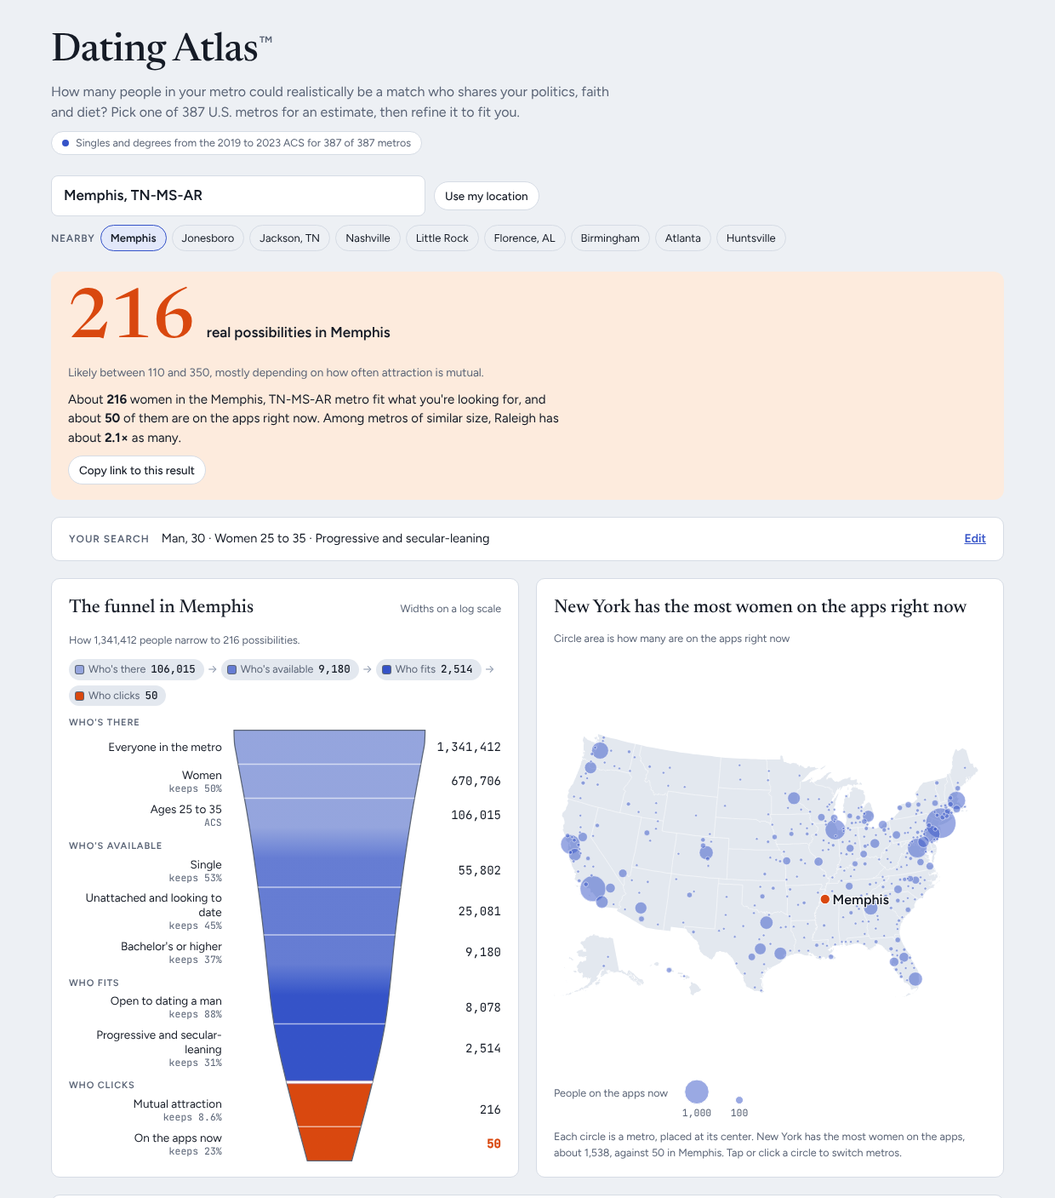
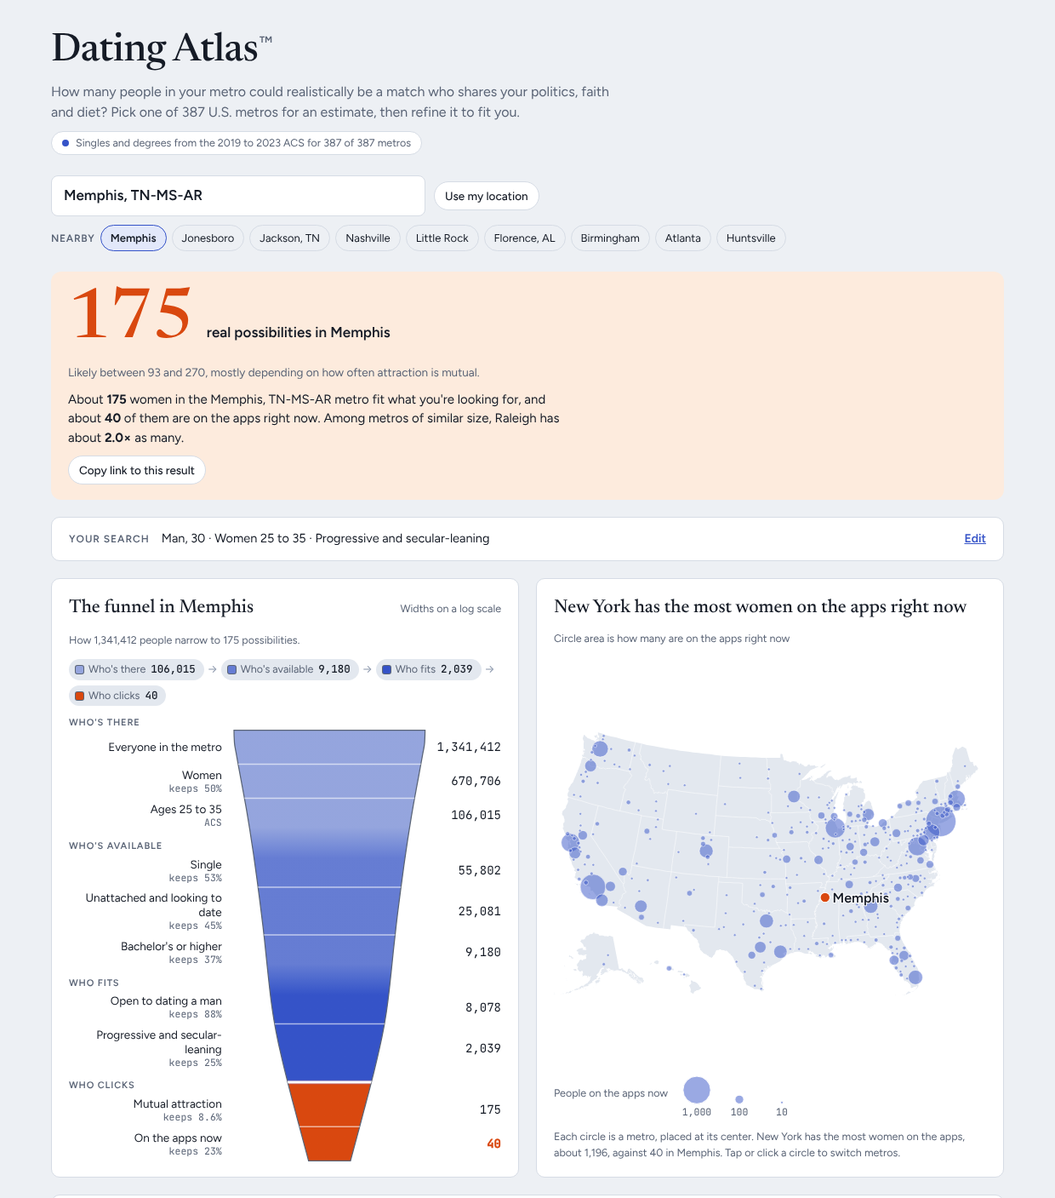
Combine politics and faith from survey odds ratios, not a fixed boost
Matching politics and faith (progressive with secular-leaning, conservative
with Christian) used a fixed x1.5 boost, which in many metros counted more
people as fitting both than fit either one. The joint share now comes from
the odds ratio between the two among single 25-to-35-year-olds in the 2024
Cooperative Election Study (a Plackett joint), so it can never exceed either
share. With the degree filter on, degree holders' politics and faith shift
as they do in the survey and line up more tightly. The range now varies the
odds ratio and the degree shift by their bootstrap spread instead of +/-15%
on the boost.

The default search in Memphis goes from 216 to 175; metro rankings barely
change. The analysis scripts keep measuring against the page as it was
before (from git), and step2.mjs checks the page matches the patched copy.
README screenshot and alt text updated.

Claude-Session: https://claude.ai/code/session_018QKs57y5CB6a4BRhY5rofv

diff --git a/atlas/index.html b/atlas/index.html
@@ -490,11 +490,11 @@ code{font-family:var(--mono);font-size:12.5px}
       <p>Singlehood and degree share come from the Census Bureau's American Community Survey for 2019 to 2023. Table B12002 counts never-married, divorced and widowed women and men in 5-year age bands; when a band straddles your age range, the page splits it into single years with a smooth curve that keeps each band's total exactly (a monotone cubic fitted to the running count across band edges), so neighboring years don't jump at band boundaries. The survey can't see unmarried couples who live together, so singles are cut by about 15%. Table B15001 gives the share of women and men aged 25 to 34 with a bachelor's degree or higher. Nonbinary people get the average of women and men, adjusted by the gaps below. All 387 metros matched an ACS row by name. Small metros have wide margins of error in the ACS, so read their ratios loosely.</p>
       <p>If a metro had no ACS row, the page would fall back to 50% single for women (6 points higher for men, 10 for nonbinary people) and to the metro's adult bachelor's rate for degrees, times 1.25 for women, 0.97 for men and 1.15 for nonbinary people.</p>
       <p>The map puts each metro at its internal point from the Census Bureau's <a href="https://www.census.gov/geographies/reference-files/time-series/geo/gazetteer-files.html">2023 Gazetteer</a>, with state outlines from <a href="https://github.com/topojson/us-atlas">us-atlas</a>, in the Albers USA projection that moves Alaska and Hawaii into insets. Circle area is proportional to the number of possibilities on the apps right now.</p>
-      <p>The range under the main number comes from a Monte Carlo simulation. The page redraws every input 2,000 times from a distribution that reflects how sure we are of it, runs the funnel for each draw, and shows the middle 80% of the results (10th to 90th percentile). The spreads come from the sources themselves: the Census Bureau's published margins of error for each metro's single people by age band and degree share (standard error = margin of error ÷ 1.645, summed across bands as root sum of squares); survey sample sizes for Gallup's openness rates and PRRI's faith shares; ±8% for Pew's share of singles who are looking and ±3.5% for the cohabiting cut; ±7 points on the progressive offset, ±5 points on the secular-leaning base and ±15% on the overlap boost, since those are modeling choices; ±25% each on the two attraction rates, which spans the published yes-rates from 22% to 49%; ±6% on the kids step; and ±5% to ±30% on the diet rates, depending on the survey. The page also reports which group of inputs drives most of the range, from how much each varies the result on its own. The range only covers uncertainty in the inputs. It does not cover errors in how the funnel is built, like assuming the steps are independent.</p>
+      <p>The range under the main number comes from a Monte Carlo simulation. The page redraws every input 2,000 times from a distribution that reflects how sure we are of it, runs the funnel for each draw, and shows the middle 80% of the results (10th to 90th percentile). The spreads come from the sources themselves: the Census Bureau's published margins of error for each metro's single people by age band and degree share (standard error = margin of error ÷ 1.645, summed across bands as root sum of squares); survey sample sizes for Gallup's openness rates and PRRI's faith shares; ±8% for Pew's share of singles who are looking and ±3.5% for the cohabiting cut; ±7 points on the progressive offset and ±5 points on the secular-leaning base, since those are modeling choices; ±15% on the odds ratio between politics and faith (±24% among degree holders) and ±10% on how a degree shifts politics and faith, from bootstrap resamples of the survey; ±25% each on the two attraction rates, which spans the published yes-rates from 22% to 49%; ±6% on the kids step; and ±5% to ±30% on the diet rates, depending on the survey. The page also reports which group of inputs drives most of the range, from how much each varies the result on its own. The range only covers uncertainty in the inputs. It does not cover errors in how the funnel is built, like assuming the steps are independent.</p>
       <p>Not every single person is available or looking. In Pew's 2022 survey, 20% of people who were neither married nor living with a partner were in a committed relationship (<a href="https://www.pewresearch.org/wp-content/uploads/sites/20/2023/01/PI_2023.02.02_Onilne-Dating_FINAL.pdf">topline, p. 64</a>), and Pew doesn't break that out by age, so the page removes 20% at every age. Of the rest, Pew's 2019 survey found 67% of men and 61% of women under 40 looking for a relationship or dates, against 55% of men and only 29% of women 40 and older (<a href="https://www.pewresearch.org/wp-content/uploads/sites/20/2020/08/PSDT_08.20.20.dating-relationships.full_.report.pdf">report, p. 18</a>). By 2022 the share looking had fallen from 61% to 50% for single men and from 38% to 35% for single women (<a href="https://www.pewresearch.org/short-reads/2023/02/08/for-valentines-day-5-facts-about-single-americans/">Pew</a>), so the page scales each age split by that drop: 55% and 45% for men, 56% and 27% for women. Nonbinary people get the average. The same step applies to the competition, since people who aren't looking aren't competing.</p>
       <p>The competition ratio divides the single, looking, degree-holding people of the genders you picked by every single, looking, degree-holding person in the same age range who is open to dating them, whatever their gender. A straight man in a metro with equal numbers of men and women gets about 0.93, because some women also date women. The sex ratio in the list is simpler: single, looking, degree-holding women per man. Because far fewer women than men over 40 are looking, it tilts toward men at older ages. Unchecking the degree filter drops the degree step from your pool and the competition alike.</p>
       <p>The values estimate is a model, not survey data. It starts from the 2024 vote, with county results summed for each metro (<a href="https://github.com/tonmcg/US_County_Level_Election_Results_08-24">tonmcg county results</a>). Connecticut and Alaska don't report by county in that file, so their metros use the statewide Harris share. The progressive share is the Harris share plus 20 points, capped at 90%. The secular-leaning share combines two religion sources: <code>40% + (unaffiliated share − 23.1%) + 0.3 × (48.6% − congregation share)</code>. The unaffiliated share is the metro's share of adults with no religion, from PRRI's county estimates in its <a href="https://www.prri.org/census/">Census of American Religion</a>, weighted by population across each metro's counties. The congregation share is the share of residents counted as members of a congregation in the <a href="https://www.usreligioncensus.org/node/1639">2020 U.S. Religion Census</a>; metros created since 2020 use the old metro or county they came from. Both figures are metro averages across the atlas (23.1% and 48.6%). The PRRI estimates carry most of the weight because they measure what people say they believe. The congregation share adds how much organized religion is around, but only lightly, since Catholic parishes count everyone they baptized. PRRI's county model already uses education and the vote, so neither enters this formula again. Men are shifted 10 points less progressive and 4 points more secular, and nonbinary people 25 points more progressive and 15 points more secular.</p>
-      <p>Politics and faith can be changed in "Who you're looking for". Conservative is everyone outside the progressive share above, so the two always add to 100%. The faith shares come from the same <a href="https://www.prri.org/census/">PRRI county estimates</a>, weighted by population across each metro's counties: Christian (Catholic, Protestant, Latter-day Saint, Orthodox and Jehovah's Witness), Catholic, Protestant, Latter-day Saint, Jewish, Muslim, Hindu and Buddhist. PRRI has no Pagan or Wiccan estimate, so the page starts from 0.3% of adults (<a href="https://www.pewresearch.org/religion/religious-landscape-study/">Pew's 2014 Religious Landscape Study</a>) and scales it by each metro's PRRI share of other religions against the atlas average of 1.44%. These are shares of all adults, not of young singles, so they will be off for groups that skew young or old. The 1.5 overlap boost applies only to matching pairs, progressive with secular-leaning and conservative with a Christian faith, because those go together more often than chance.</p>
+      <p>Politics and faith can be changed in "Who you're looking for". Conservative is everyone outside the progressive share above, so the two always add to 100%. The faith shares come from the same <a href="https://www.prri.org/census/">PRRI county estimates</a>, weighted by population across each metro's counties: Christian (Catholic, Protestant, Latter-day Saint, Orthodox and Jehovah's Witness), Catholic, Protestant, Latter-day Saint, Jewish, Muslim, Hindu and Buddhist. PRRI has no Pagan or Wiccan estimate, so the page starts from 0.3% of adults (<a href="https://www.pewresearch.org/religion/religious-landscape-study/">Pew's 2014 Religious Landscape Study</a>) and scales it by each metro's PRRI share of other religions against the atlas average of 1.44%. These are shares of all adults, not of young singles, so they will be off for groups that skew young or old. Matching pairs, progressive with secular-leaning and conservative with a Christian faith, go together more often than chance. The share who fit both comes from the odds ratio between politics and faith among single 25 to 35 year olds in the <a href="https://doi.org/10.7910/DVN/X11EP6">2024 Cooperative Election Study</a>: 1.8 for women and 2.3 for men for progressive with no religion, and 2.0 and 1.9 for conservative with a Christian faith. Worked out this way (a Plackett joint), it can never exceed either share on its own. Degree holders are more progressive (odds 1.4 to 1.4 times higher), more often Christian (1.2 to 1.3 times) and less often unaffiliated, and their politics and faith line up more tightly (odds ratios of 4.1 to 5.0), so the degree filter uses those figures. Progressive counts Democrats and leaners, with independents as half.</p>
       <p>The diet step uses national rates. In <a href="https://news.gallup.com/poll/510038/identify-vegetarian-vegan.aspx">Gallup's 2023 poll</a>, 4% of Americans were vegetarian (6% of women, 2% of men) and 1% vegan, and 9% of liberals were vegetarian against 3% of moderates and conservatives, so vegetarian and vegan rates are scaled by 2.25 for progressives and 0.75 for conservatives. Vegan rates split by gender the same way as vegetarian. An <a href="https://www.frontiersin.org/journals/nutrition/articles/10.3389/fnut.2023.1113792/full">analysis of NHANES</a> found 4.7% of adults eat a pescatarian diet, 59.5% of them women; the pescatarian option also counts vegetarians, and only that vegetarian part is scaled by politics. Kosher and halal follow the local faith shares: 17% of Jewish Americans keep kosher at home (<a href="https://www.pewresearch.org/religion/2021/05/11/jewish-practices-and-customs/">Pew 2020</a>), and 83% of Muslim Americans only buy halal or prefer it (<a href="https://ispu.org/halal-preferences/">ISPU 2022</a>).</p>
       <p>The adult bachelor's rate in the fallback above is the county share of adults 25 and older with a bachelor's degree or higher, from the 2015 to 2019 ACS (<a href="https://github.com/OpenIntroStat/usdata">OpenIntro usdata</a>), weighted by population across each metro's counties and scaled up to today's national rate (32.1% to 36.9%). The degree step in the funnel uses Table B15001.</p>
       <p>Housing cost is a recent mover's rent for a 1-bedroom as a share of median yearly pay, from the 2019 to 2023 ACS. Table B25031 gives each metro's median gross rent, including utilities, for a 1-bedroom. That median includes people on long leases and in rent-stabilized units, so it is scaled by the metro's ratio of rent for people who moved in from 2021 on to rent for all renters (Table B25113). Pay is the median earnings of people 25 and older with a bachelor's degree, or with some college if you set no bachelor's (Table B20004), and it covers part-time workers too. The 30% line is HUD's definition of a cost-burdened renter. Rents have risen since 2023, so treat the dollar figures as a floor. The ranking between metros holds up better. Housing cost doesn't change the pool. It's a separate measure of what living there costs.</p>
@@ -538,7 +538,21 @@ const SINGLE_ADJ = {w:0, m:6, n:10};  // points above SINGLE (modeled) or above 
 const DEG_MULT = {w:1.25, m:.97, n:1.15};
 const VAL_SHIFT = {w:[0,0], m:[-.10,.04], n:[.25,.15]}; // [progressive, secular]
 const COHAB = .85; // ACS can't see cohabiting couples; about 15% of unmarried young adults live with a partner
-const CORR = 1.5;  // filters overlap: progressives skew secular and conservatives skew Christian, so a matching pair is more common than the product
+// Matching politics and faith go together more often than chance: progressives skew secular and conservatives
+// Christian. The share who fit both comes from the odds ratio between the two among single 25-to-35-year-olds in
+// the 2024 Cooperative Election Study (a Plackett joint), so it can never exceed either share on its own.
+// Degree holders are more progressive, more often Christian and less often unaffiliated, and their politics and
+// faith line up more tightly, so the degree filter shifts both shares and uses the degree holders' odds ratio.
+// Nonbinary people get the average of women and men.
+const PSI = {prog:{all:{w:1.82, m:2.26}, ba:{w:4.76, m:4.1}}, cons:{all:{w:2.05, m:1.86}, ba:{w:5.01, m:4.28}}};
+const DEG_OR = {prog:{w:1.38, m:1.45}, sec:{w:.93, m:.76}, christian:{w:1.2, m:1.3}};
+const byGender = (o, g) => o[g] ?? (o.w + o.m)/2;
+const shiftOdds = (p, k) => p <= 0 || p >= 1 ? p : p*k/(1 - p + p*k);
+const plackett = (p, q, psi) => { if (Math.abs(psi - 1) < 1e-9) return p*q; const S = 1 + (psi - 1)*(p + q);
+  return (S - Math.sqrt(S*S - 4*psi*(psi - 1)*p*q))/(2*(psi - 1)); };
+// Self-check: the joint gives back its odds ratio and stays inside both shares
+[[.7, .4, 4.76], [.9, .5, 1.82], [.3, .9, 5]].forEach(([p, q, psi]) => { const j = plackett(p, q, psi);
+  console.assert(Math.abs(j*(1 - p - q + j)/((p - j)*(q - j)) - psi) < 1e-6 && j <= Math.min(p, q), "plackett", p, q, psi); });
 // Partner filters. The default is progressive, secular-leaning and any diet; the second preset is the opposite side.
 const POLS = {prog:"Progressive", cons:"Conservative", any:"Any politics"};
 const FAITHS = {secular:"Secular-leaning", christian:"Christian", catholic:"Catholic", protestant:"Protestant", lds:"Latter-day Saint",
@@ -662,19 +676,23 @@ const M = RAW.map(([name,pop,bach,black,dem,demNote],i) => {
   const house = HOUSE[name] || null;
   return {i, name, short:name.split(",")[0].split("–")[0], pop, bach, dem, demNote, adh, none, acs, deg, house, faith:FAITH[name] || null};
 });
-// Share of single people of gender g in metro m who fit your politics and faith, 0 to 1, before the overlap boost
+// Share of single people of gender g in metro m who fit your politics and faith, 0 to 1
 // Q holds the modeled constants, so the uncertainty simulation can vary them
-const VQ = {off:.2, sec:.40, fr:1, corr:CORR};
+const VQ = {off:.2, sec:.40, fr:1, psi:1, dp:1, ds:1};
 function valRaw(m, g, P, Q = VQ){
-  const [ps, ss] = VAL_SHIFT[g], F = m.faith;
-  const prog = Math.min(.9, m.dem/100 + Q.off + ps);
+  const [ps, ss] = VAL_SHIFT[g], F = m.faith, deg = P.degOnly;
+  let prog = Math.min(.9, m.dem/100 + Q.off + ps);
+  let sec = Math.min(.8, Math.max(.05, Q.sec + (m.none - 23.1)/100 + .3*(48.6 - m.adh)/100 + ss));
+  let fs = !F ? 0 : Q.fr*(P.faith === "pagan" ? PAGAN*F[8]/OTHER_AVG : F[FAITH_COL[P.faith]]/100);
+  if (deg){ prog = shiftOdds(prog, byGender(DEG_OR.prog, g)*Q.dp); sec = shiftOdds(sec, byGender(DEG_OR.sec, g)*Q.ds);
+    if (CHRISTIAN.includes(P.faith)) fs = shiftOdds(fs, byGender(DEG_OR.christian, g)*Q.ds); }
   const pol = P.pol === "prog" ? prog : P.pol === "cons" ? 1 - prog : 1;
-  const rel = P.faith === "secular" ? Math.min(.8, Math.max(.05, Q.sec + (m.none - 23.1)/100 + .3*(48.6 - m.adh)/100 + ss))
-    : P.faith === "any" ? 1 : !F ? 0 : Q.fr*(P.faith === "pagan" ? PAGAN*F[8]/OTHER_AVG : F[FAITH_COL[P.faith]]/100);
+  const rel = P.faith === "secular" ? sec : P.faith === "any" ? 1 : fs;
+  if (aligned(P)) return plackett(pol, rel, byGender(PSI[P.pol][deg ? "ba" : "all"], g)*Q.psi);
   return P.faith === "secular" ? Math.max(.02, pol*rel) : pol*rel;
 }
 const aligned = P => (P.pol === "prog" && P.faith === "secular") || (P.pol === "cons" && CHRISTIAN.includes(P.faith));
-const valFit = (m, g, P, Q = VQ) => Math.min(1, valRaw(m, g, P, Q)*(aligned(P) ? Q.corr : 1));
+const valFit = (m, g, P, Q = VQ) => Math.min(1, valRaw(m, g, P, Q));
 // Share of those who also fit your diet. Kosher and halal follow the local Jewish and Muslim shares.
 function dietFit(m, g, P){
   if (P.diet === "any") return 1;
@@ -716,7 +734,7 @@ const ZS = (() => { let a = 20251002; const rnd = () => { a |= 0; a = a + 0x6D2B
   return z; })();
 const LN = (sd, z) => Math.exp(sd*z - sd*sd/2);       // mean-one lognormal scale
 const NR = (sd, z) => Math.max(.05, 1 + sd*z);        // mean-one normal scale, kept positive
-const UNC = {cohab:.035, look:.08, openAdapt:.05, off:.07, sec:.05, corr:.15, pagan:.35, kids:.06, his:.25, her:.25, dietPol:.2,
+const UNC = {cohab:.035, look:.08, openAdapt:.05, off:.07, sec:.05, psi:{all:.15, ba:.24}, degOR:.1, pagan:.35, kids:.06, his:.25, her:.25, dietPol:.2,
   diet:{veg:.15, vegan:.3, pesc:.08, kosher:.05, halal:.05}};
 // Each group as it reads after "mostly depending on"
 const UGROUPS = {census:"the local Census counts", look:"how many singles are looking", open:"how many are open to dating you",
@@ -747,7 +765,8 @@ function interval(m, s, P, f){
   const Q = {...VQ}, fac = new Float64Array(K), one = new Float64Array(K);
   for (let d = 0; d < NSIM; d++){
     const z = i => ZS[d*DIMS + i];
-    Q.off = VQ.off + UNC.off*z(0); Q.sec = VQ.sec + UNC.sec*z(1); Q.fr = frSD ? LN(frSD, z(2)) : 1; Q.corr = CORR*LN(UNC.corr, z(3));
+    Q.off = VQ.off + UNC.off*z(0); Q.sec = VQ.sec + UNC.sec*z(1); Q.fr = frSD ? LN(frSD, z(2)) : 1; Q.psi = LN(UNC.psi[s.deg ? "ba" : "all"], z(3));
+    Q.dp = s.deg ? LN(UNC.degOR, z(30)) : 1; Q.ds = s.deg ? LN(UNC.degOR, z(31)) : 1;
     const cohab = NR(UNC.cohab, z(4)), click = LN(UNC.his, z(5))*LN(UNC.her, z(6)), diet = (dietSD ? LN(dietSD, z(7)) : 1)*(dietPolSD ? LN(dietPolSD, z(8)) : 1);
     let all = 0; one.fill(0);
     parts.forEach((p, j) => { const g = g0[j], b = 9 + j*7;

diff --git a/docs/structural-uncertainty.md b/docs/structural-uncertainty.md
@@ -1,6 +1,6 @@
 # How the funnel is built: a structural check
 
-The range under the main number covers uncertainty in the inputs, not in how the funnel is built. This note measures the second kind. It checks each structural assumption against survey microdata (step 1), then replaces the biggest one with estimates from data (step 2). Nothing on the live page has changed; step 2 exists as a tested patch, `scripts/structure/step2-values-joint.patch`.
+The range under the main number covers uncertainty in the inputs, not in how the funnel is built. This note measures the second kind. It checks each structural assumption against survey microdata (step 1), then replaces the biggest one with estimates from data (step 2). Step 2 is now applied to the page (`scripts/structure/step2-values-joint.patch`). Every "before" figure below is the page as it was before that change; the scripts read it from git (commit 73d4238), so the analysis reproduces.
 
 ## Summary
 
@@ -10,7 +10,7 @@ The range under the main number covers uncertainty in the inputs, not in how the
 - **Several other assumptions are wrong by 8 to 37%, in measurable ways.** The degree step uses the degree share of everyone aged 25 to 34. Singles hold degrees about 10% less often, and the page uses the 25-to-34 share whatever age range you pick (singles 40 to 50 hold degrees at 0.78 times that rate). The flat 15% cohabiting cut is too small for young singles (26% of women and 22% of men aged 25 to 35 live with a partner). The faith shares describe all adults, but young singles are only 0.68 times as likely to be Christian.
 - **The secular-leaning level is not clearly off, but it should fall with age.** CES finds 6 to 7 points more young singles with no religion than the page assumes, but CES also finds about 7 points more unaffiliated adults overall than the GSS, PRRI or Pew. That's a survey house effect, not an error on the page. Across sources, the share of single women 25 to 35 with no religion runs from about 32% (on PRRI's scale) through 37.5% (GSS) to 48% (CES); the page's 40% sits in the middle. The real problem is age: the page uses the same base at every age, while the no-religion share among singles falls from 37.5% at 25 to 35 to about 22% at 46 to 55 (GSS, women). For a search for women 40 to 50 that alone is ×0.76.
 - **Some assumptions hold up.** Mutual attraction is close to his rate times her rate (lift 1.03). Openness to dating your gender barely varies with politics (within 2.5%). The progressive model fits young single women well. For men it's too steep: it overstates how progressive men are in the most Democratic metros.
-- **Recommendation: fix rather than widen.** The structural errors found here are systematic biases with data to correct them, not random noise. Folding them into the range as judgment would widen it around a center that's known to be off. Apply step 2. Then fix the degree share's age band, the cohabiting rate, the faith shares and the secular share's age gradient, and carry each correction's own statistical uncertainty into the range. Step 2 shows how. The one finding that does belong in the range is the secular-leaning level, where sources disagree with no known direction of error.
+- **Recommendation: fix rather than widen.** The structural errors found here are systematic biases with data to correct them, not random noise. Folding them into the range as judgment would widen it around a center that's known to be off. Step 2 is applied. Next, fix the degree share's age band, the cohabiting rate, the faith shares and the secular share's age gradient, and carry each correction's own statistical uncertainty into the range. Step 2 shows how. The one finding that does belong in the range is the secular-leaning level, where sources disagree with no known direction of error.
 
 ## Method
 
@@ -92,7 +92,7 @@ What stands out:
 - **The secular-leaning level moves the number but not the ranking.** Taking it from PRRI's scale, the GSS or CES moves the combined result for the default search from ×0.49 to ×0.83, with the ranking unchanged (ρ 0.996 to 0.998). The page's level gives ×0.67, close to the GSS. This is uncertainty about the level, with no known direction of error, so it belongs in the range rather than in a correction.
 - **Rankings are robust throughout.** The order of metros barely depends on how the funnel is built, so comparing metros on the page is far safer than reading off a single metro's absolute number.
 
-## Step 2: replacing the overlap with data
+## Step 2: replacing the overlap with data (applied)
 
 The largest independence-type assumption is how politics and faith combine, so step 2 replaces it. Because the degree holders' odds ratio only makes sense with their own shares, the replacement also shifts politics and faith for degree holders. Concretely, the patch:
 
@@ -156,7 +156,7 @@ CES puts the no-religion share of single 25-to-35-year-olds 6 to 7 points above 
 
 ## Suggested next steps
 
-1. **Apply step 2.** It fixes a logic error and puts the overlap on data, with its uncertainty in the range: `git apply scripts/structure/step2-values-joint.patch`.
+1. **Step 2: done.** It fixes a logic error and puts the overlap on data, with its uncertainty in the range. The page now carries it; `scripts/structure/step2.mjs` checks that the page matches the patched copy exactly.
 2. **Use the degree share for the matching age band.** B15001 has bands for 25 to 34, 35 to 44 and 45 to 64. Scale it by about 0.9 to reach singles, from PUMS by sex and band (`scripts/structure/out/pums_degree.json`).
 3. **Use cohabiting rates by sex and age band** from PUMS in place of the flat 15%.
 4. **Adjust faith shares to young singles** with the CES ratios, or say more prominently that Christian counts are likely high.

diff --git a/README.md b/README.md
@@ -4,7 +4,7 @@ Dating Atlas estimates how many people in a U.S. metro could realistically be yo
 
 Live page: https://datingatlas.dev/
 
-![Dating Atlas showing 216 possibilities in Memphis, with the funnel from 1.3 million people down to 50 on the apps and a map of every metro](docs/atlas-screenshot.png)
+![Dating Atlas showing 175 possibilities in Memphis, with the funnel from 1.3 million people down to 40 on the apps and a map of every metro](docs/atlas-screenshot.png)
 
 ## What it does
 
